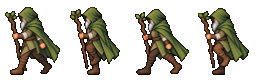
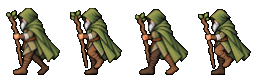
Shorten left-walk stride and keep one visible left staff hand

diff --git a/docs/art/druid-walk-left-v3/README.md b/docs/art/druid-walk-left-v3/README.md
@@ -10,7 +10,16 @@
 
 Вместо очередного набора похожих стоек заданы четыре ключевые фазы: ближняя левая нога впереди → она принимает вес, дальняя правая проходит под тазом → дальняя правая нога впереди, ближняя уходит назад → дальняя принимает вес, ближняя проходит под тазом. В широких стойках ноги разнесены, в проходных позах стопа переносимой ноги поднимается. Более светлая ближняя нога и более тёмная дальняя помогают видеть смену опоры. Вторую половину рисунка дополнительно исправили, чтобы передняя стопа не повторяла ту же ногу, что в первом кадре.
 
-Посох остаётся в анатомически левой, ближней руке. Плащ раскрывается в области ног. Рисунок подготовлен генерацией целых фигур; отдельные голени не вырезаются, неподвижный торс не накладывается и зеркальные копии не используются. Убедительность шага оценивается по GIF и исходнику перед интеграцией.
+По новым замечаниям размах шага сокращён без уменьшения самой фигуры. Сохранены четыре фазы и чередование ближней и дальней ноги. Целевое сокращение — около четверти; оценка расстояния между центрами сапог по границам их рисунка дала следующие значения на сетке 64×80:
+
+| Опорная поза | До правки | После правки | Сокращение |
+| --- | --- | --- | --- |
+| Первый кадр | ≈28,1 px | ≈22,4 px | ≈20% |
+| Третий кадр | ≈31,7 px | ≈24,4 px | ≈23% |
+
+Это оценка изображённых сапог, а не измерение суставов или расстояния перемещения героя. Скорость движения в игре не менялась.
+
+Посох остаётся в анатомически левой, ближней руке во всех кадрах, включая нижний правый. Видны только эта рука и её хват посоха; правая рука скрыта плащом, лишняя рука в первом кадре убрана. Плащ раскрывается в области ног. Рисунок исправлен через генерацию целых поз; отдельные голени не вырезаются, неподвижный торс не накладывается и зеркальные копии не используются. Убедительность шага и хвата оценивается по GIF и исходнику перед интеграцией.
 
 Исходный лист **1254×1254**, два ряда по две фигуры, сохранён без изменений из последней генерации. Порядок кадров — слева направо, сверху вниз. Полоса **256×80** содержит четыре кадра **64×80**. Для всех фигур применяется общий масштаб **1/8**. Горизонтальный ориентир зелёной области капюшона совмещён с x=32, нижняя граница силуэта — с y=75; целые позы помещаются в кадр без обрезания. Цвета PNG не ограничены, альфа — 0 или 255.
 
